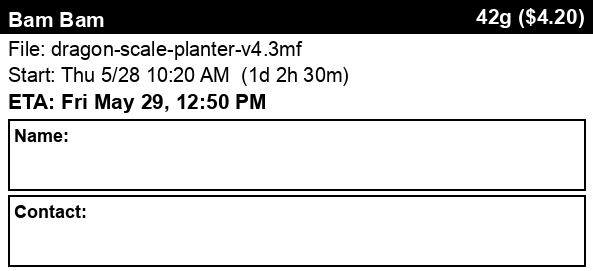
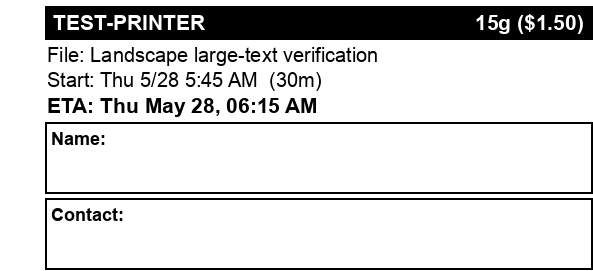
Calibrate Dymo 30336 margins, native 300dpi raster, and avoid usblp contention

Changed region(s): [[0.0, 0.0, 1.0, 1.0]]

diff --git a/src/printerprinter/labeling.py b/src/printerprinter/labeling.py
@@ -326,12 +326,31 @@ def _render_compact_label(
     price_per_gram: float,
 ) -> None:
     """High-density layout tailored for small/narrow labels like Dymo 30336 (1" x 2-1/8") and 30252."""
-    margin = max(6, int(width * 0.014))
-    bottom_margin = max(4, int(height * 0.015))
-    header_h = max(30, int(height * 0.125))
+    # Calibrated from physical Dymo 30336 prints via lw450t.ppd (w72h154.1):
+    # CUPS ImageableArea starts ~41 dots (3.5mm) inside the leading (right) sticker edge
+    # and extends ~4 dots past the trailing (left) sticker edge; vertically row 0 starts
+    # ~11 dots below the top edge with ~20 dots below the bottom edge.
+    if width <= 620:
+        left_pad = max(42, int(round(width * 0.076)))
+        right_pad = 1
+        top_pad = 6
+        bottom_margin = 2
+    else:
+        left_pad = max(8, int(width * 0.014))
+        right_pad = max(8, int(width * 0.014))
+        top_pad = 4
+        bottom_margin = max(4, int(height * 0.015))
 
-    # Top banner puts Printer on the left and Filament/Price on the right instead of a static title.
-    draw.rectangle((0, 0, width, header_h), fill="black")
+    x_left = left_pad
+    x_right = width - right_pad
+    content_w = max(120, x_right - x_left)
+    header_pad_x = max(7, int(content_w * 0.015))
+    header_h = max(30, int((height - top_pad) * 0.125))
+    header_top = top_pad
+    header_bottom = header_top + header_h
+
+    # Top banner aligns flush with the write-in boxes below and clears rounded sticker corners.
+    draw.rectangle((x_left, header_top, x_right, header_bottom), fill="black")
     printer_raw = _safe_text(event.get("printer_name") or event.get("printer_id"))
     filament_raw = _format_filament_with_optional_price(
         event.get("filament_estimated_g"),
@@ -347,22 +366,23 @@ def _render_compact_label(
         badge_fitted, badge_font = _fit_text(
             draw,
             badge_text,
-            max_width=max(80, int(width * 0.44)),
+            max_width=max(80, int(content_w * 0.45)),
             start_size=header_target_size,
             min_size=header_min_size,
             bold=True,
         )
         badge_box = draw.textbbox((0, 0), badge_fitted, font=badge_font)
         badge_w = badge_box[2] - badge_box[0]
-        badge_h = badge_box[3] - badge_box[1]
+        badge_cap = draw.textbbox((0, 0), "HG", font=badge_font)
+        badge_y = header_top + (header_h - (badge_cap[3] - badge_cap[1])) // 2 - badge_cap[1]
         draw.text(
-            (width - margin - badge_w, max(0, (header_h - badge_h) // 2 - badge_box[1] // 2)),
+            (x_right - header_pad_x - badge_w, badge_y),
             badge_fitted,
             fill="white",
             font=badge_font,
         )
 
-    printer_max_w = max(80, width - (margin * 2) - (badge_w + 12 if badge_w else 0))
+    printer_max_w = max(80, content_w - (header_pad_x * 2) - (badge_w + 10 if badge_w else 0))
     printer_fitted, printer_font = _fit_text(
         draw,
         printer_raw,
@@ -371,18 +391,18 @@ def _render_compact_label(
         min_size=header_min_size,
         bold=True,
     )
-    p_box = draw.textbbox((0, 0), printer_fitted, font=printer_font)
-    p_h = p_box[3] - p_box[1]
+    p_cap = draw.textbbox((0, 0), "HG", font=printer_font)
+    p_y = header_top + (header_h - (p_cap[3] - p_cap[1])) // 2 - p_cap[1]
     draw.text(
-        (margin, max(0, (header_h - p_h) // 2 - p_box[1] // 2)),
+        (x_left + header_pad_x, p_y),
         printer_fitted,
         fill="white",
         font=printer_font,
     )
 
-    y = header_h + max(4, int(height * 0.018))
-    line_h = max(22, int(height * 0.098))
-    body_size = max(15, int(height * 0.076))
+    y = header_bottom + max(4, int(height * 0.016))
+    line_h = max(21, int((height - top_pad) * 0.095))
+    body_size = max(15, int(height * 0.075))
     body_min_size = max(12, int(height * 0.052))
 
     duration_str = _format_duration(event.get("est_duration_sec"))
@@ -400,26 +420,26 @@ def _render_compact_label(
         fitted, font = _fit_text(
             draw,
             row_text,
-            max_width=width - (margin * 2),
+            max_width=content_w - 4,
             start_size=body_size + (1 if is_bold else 0),
             min_size=body_min_size,
             bold=is_bold,
         )
-        draw.text((margin, y), fitted, fill="black", font=font)
+        draw.text((x_left + 2, y), fitted, fill="black", font=font)
         y += line_h
 
-    y += max(4, int(height * 0.018))
+    y += max(4, int(height * 0.016))
     fields = ("Name", "Contact")
     field_gap = max(5, int(height * 0.02))
-    available = max(64, height - bottom_margin - y)
-    field_h = max(28, (available - field_gap * (len(fields) - 1)) // len(fields))
+    available = max(60, height - bottom_margin - y)
+    field_h = max(26, (available - field_gap * (len(fields) - 1)) // len(fields))
     field_font = _load_font(max(13, int(height * 0.068)), bold=True)
 
     for index, field in enumerate(fields):
         field_top = y + index * (field_h + field_gap)
         field_bottom = min(height - bottom_margin, field_top + field_h)
-        draw.rectangle((margin, field_top, width - margin, field_bottom), outline="black", width=2)
-        draw.text((margin + 6, field_top + max(3, int(field_h * 0.09))), f"{field}:", fill="black", font=field_font)
+        draw.rectangle((x_left, field_top, x_right, field_bottom), outline="black", width=2)
+        draw.text((x_left + 6, field_top + max(3, int(field_h * 0.09))), f"{field}:", fill="black", font=field_font)
 
 
 def render_label_image(

diff --git a/src/printerprinter/printing.py b/src/printerprinter/printing.py
@@ -393,7 +393,7 @@ class DymoPrintService:
         label_size: str,
         show_price: bool,
         price_per_gram: float,
-        print_quality: str = "Graphics",
+        print_quality: str = "Text",
         print_density: str = "Normal",
         job_expire_seconds: int = 300,
     ) -> None:
@@ -405,7 +405,7 @@ class DymoPrintService:
         self._label_size = label_size.strip() or "30336"
         self._show_price = show_price
         self._price_per_gram = price_per_gram
-        self._print_quality = _DYMO_QUALITY_MAP.get(print_quality.strip().lower(), "Graphics")
+        self._print_quality = _DYMO_QUALITY_MAP.get(print_quality.strip().lower(), "Text")
         self._print_density = _DYMO_DENSITY_MAP.get(print_density.strip().lower(), "Normal")
         self._job_expire_seconds = max(0, int(job_expire_seconds))
 
@@ -530,14 +530,6 @@ class DymoPrintService:
         if queue_state["out_of_paper"]:
             return PrintResult(ok=False, error="Dymo printer reports out of paper in CUPS")
 
-        if is_usb_target and int(queue_state.get("queued_jobs", 0)) == 0:
-            hw_status = query_dymo_usb_hardware_status()
-            if hw_status is not None:
-                if hw_status.get("paper_out"):
-                    return PrintResult(ok=False, error="Dymo printer is out of paper")
-                if hw_status.get("paper_jam"):
-                    return PrintResult(ok=False, error="Dymo printer reports a label jam")
-
         try:
             image = render_label_image(
                 event,
@@ -550,6 +542,7 @@ class DymoPrintService:
                 tmp_image_path = Path(tmpdir) / "label.png"
                 image.save(tmp_image_path, format="PNG", dpi=(300, 300))
 
+                resolution_opt = "300dpi" if self._print_quality == "Text" else "300x600dpi"
                 cmd = [
                     lp_path,
                     "-d",
@@ -557,7 +550,9 @@ class DymoPrintService:
                     "-o",
                     f"PageSize={spec.ppd_page_size}",
                     "-o",
-                    "fit-to-page",
+                    "DymoHalftoning=Default",
+                    "-o",
+                    f"Resolution={resolution_opt}",
                     "-o",
                     f"DymoPrintQuality={self._print_quality}",
                     "-o",
@@ -665,9 +660,11 @@ def probe_printer_status(settings: Settings) -> dict[str, object]:
     )
     resolved_queue, is_usb_target, queue_err = dymo_service.resolve_queue_name()
     queue_state = get_cups_queue_state(resolved_queue) if resolved_queue else None
+    # Avoid opening /dev/usb/lp0 via kernel usblp once CUPS owns the USB printer via libusb,
+    # as detaching/reattaching usblp between jobs can reset top-of-form reverse-feed state.
     hw_status = (
         query_dymo_usb_hardware_status()
-        if is_usb_target and usb_devices and (queue_state is None or int(queue_state.get("queued_jobs", 0)) == 0)
+        if is_usb_target and usb_devices and (queue_state is None or not queue_state.get("exists"))
         else None
     )
 
@@ -875,7 +872,11 @@ def setup_dymo_usb_cups_queue(
         "-o",
         f"PageSize={spec.ppd_page_size}",
         "-o",
-        "DymoPrintQuality=Graphics",
+        "DymoHalftoning=Default",
+        "-o",
+        "Resolution=300dpi",
+        "-o",
+        "DymoPrintQuality=Text",
         "-o",
         "printer-is-shared=false",
         "-o",

diff --git a/tests/test_dymo_printing.py b/tests/test_dymo_printing.py
@@ -165,7 +165,6 @@ class DymoPrintServiceTests(unittest.TestCase):
         ppd_400t = _select_dymo_ppd_uri("LabelWriter-450-Turbo", "LabelWriter 400 Turbo")
         self.assertEqual(ppd_400t, "dymo:0/cups/model/lw400t.ppd")
 
-    @patch("printerprinter.printing.query_dymo_usb_hardware_status", return_value={"paper_out": False, "paper_jam": False, "ready": True})
     @patch(
         "printerprinter.printing.get_cups_queue_state",
         return_value={"exists": True, "enabled": True, "out_of_paper": False, "queued_jobs": 0, "summary": "idle"},
@@ -179,7 +178,6 @@ class DymoPrintServiceTests(unittest.TestCase):
         _mock_discover: MagicMock,
         _mock_usb: MagicMock,
         _mock_state: MagicMock,
-        _mock_hw: MagicMock,
     ) -> None:
         captured_cmd: list[str] = []
         captured_dpi: tuple[float, float] | None = None
@@ -200,7 +198,7 @@ class DymoPrintServiceTests(unittest.TestCase):
             label_size="30336",
             show_price=True,
             price_per_gram=0.10,
-            print_quality="Graphics",
+            print_quality="Text",
             print_density="Normal",
             job_expire_seconds=300,
         )
@@ -210,8 +208,10 @@ class DymoPrintServiceTests(unittest.TestCase):
         self.assertTrue(res.ok, res.error)
         self.assertIn("DYMO_LW400T", captured_cmd)
         self.assertIn("PageSize=w72h154.1", captured_cmd)
-        self.assertIn("fit-to-page", captured_cmd)
-        self.assertIn("DymoPrintQuality=Graphics", captured_cmd)
+        self.assertNotIn("fit-to-page", captured_cmd)
+        self.assertIn("DymoHalftoning=Default", captured_cmd)
+        self.assertIn("Resolution=300dpi", captured_cmd)
+        self.assertIn("DymoPrintQuality=Text", captured_cmd)
         self.assertIn("DymoPrintDensity=Normal", captured_cmd)
         self.assertIn("job-cancel-after=300", captured_cmd)
         self.assertIsNotNone(captured_dpi)
@@ -219,10 +219,9 @@ class DymoPrintServiceTests(unittest.TestCase):
         self.assertAlmostEqual(captured_dpi[0], 300, delta=1)
         self.assertAlmostEqual(captured_dpi[1], 300, delta=1)
 
-    @patch("printerprinter.printing.query_dymo_usb_hardware_status", return_value={"paper_out": True, "paper_jam": False, "ready": False})
     @patch(
         "printerprinter.printing.get_cups_queue_state",
-        return_value={"exists": True, "enabled": True, "out_of_paper": False, "queued_jobs": 0, "summary": "idle"},
+        return_value={"exists": True, "enabled": True, "out_of_paper": True, "queued_jobs": 0, "summary": "out-of-paper"},
     )
     @patch("printerprinter.printing.detect_dymo_usb_devices", return_value=[{"vendor_id": "0922", "product_id": "001a"}])
     @patch("printerprinter.printing.shutil.which", return_value="/usr/bin/lp")
@@ -231,7 +230,6 @@ class DymoPrintServiceTests(unittest.TestCase):
         _mock_which: MagicMock,
         _mock_usb: MagicMock,
         _mock_state: MagicMock,
-        _mock_hw: MagicMock,
     ) -> None:
         service = DymoPrintService(
             enabled=True,

diff --git a/src/printerprinter/config.py b/src/printerprinter/config.py
@@ -70,7 +70,7 @@ class Settings(BaseSettings):
     dymo_model: str = Field(default="LabelWriter-400-Turbo", alias="DYMO_MODEL")
     dymo_usb_queue_name: str = Field(default="", alias="DYMO_USB_QUEUE_NAME")
     dymo_wifi_queue_name: str = Field(default="", alias="DYMO_WIFI_QUEUE_NAME")
-    dymo_print_quality: str = Field(default="Graphics", alias="DYMO_PRINT_QUALITY")
+    dymo_print_quality: str = Field(default="Text", alias="DYMO_PRINT_QUALITY")
     dymo_print_density: str = Field(default="Normal", alias="DYMO_PRINT_DENSITY")
     dymo_job_expire_seconds: int = Field(default=300, alias="DYMO_JOB_EXPIRE_SECONDS")
 
